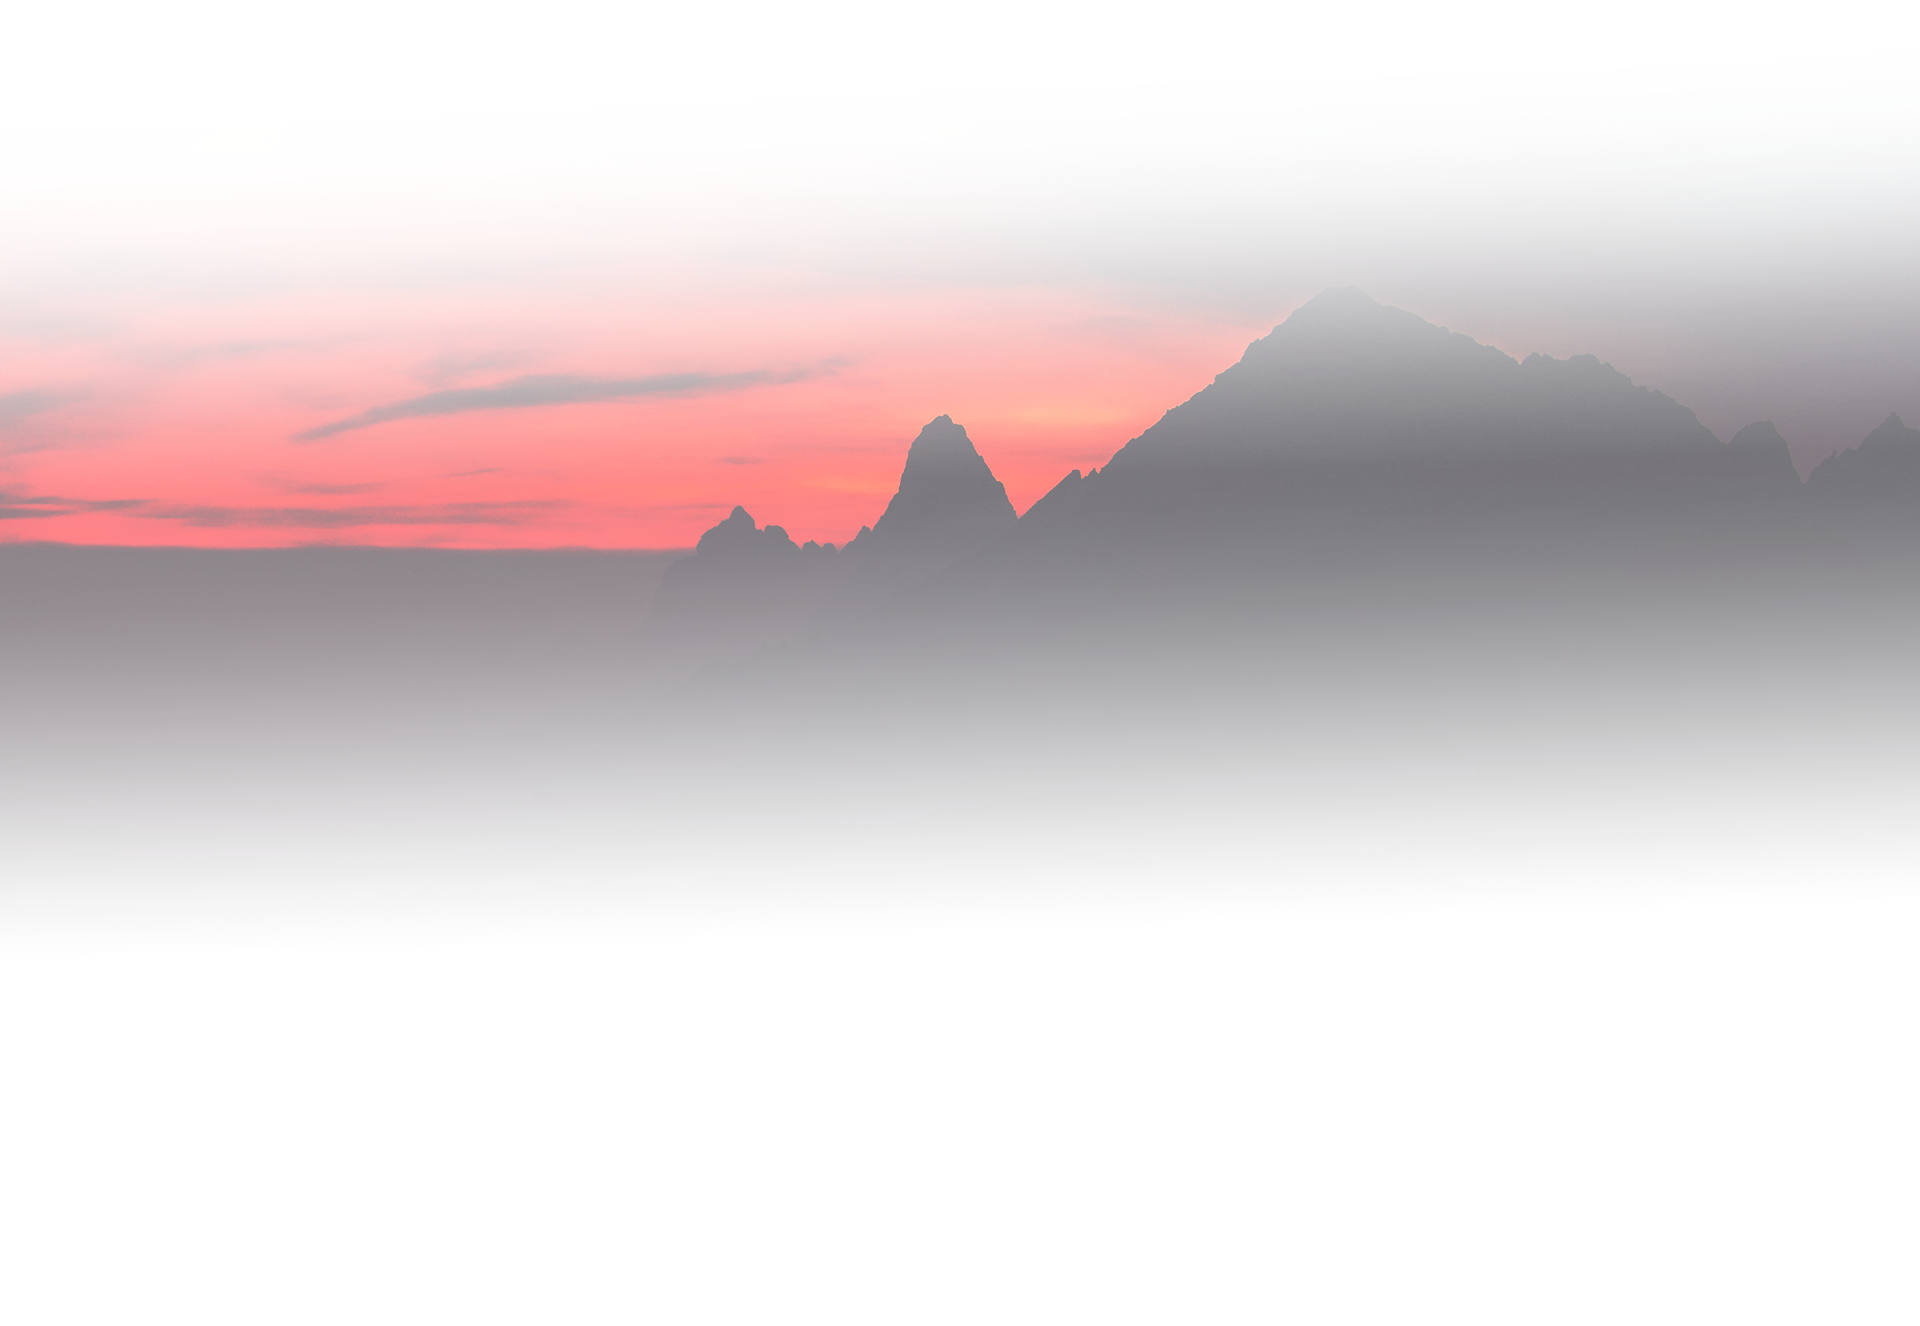
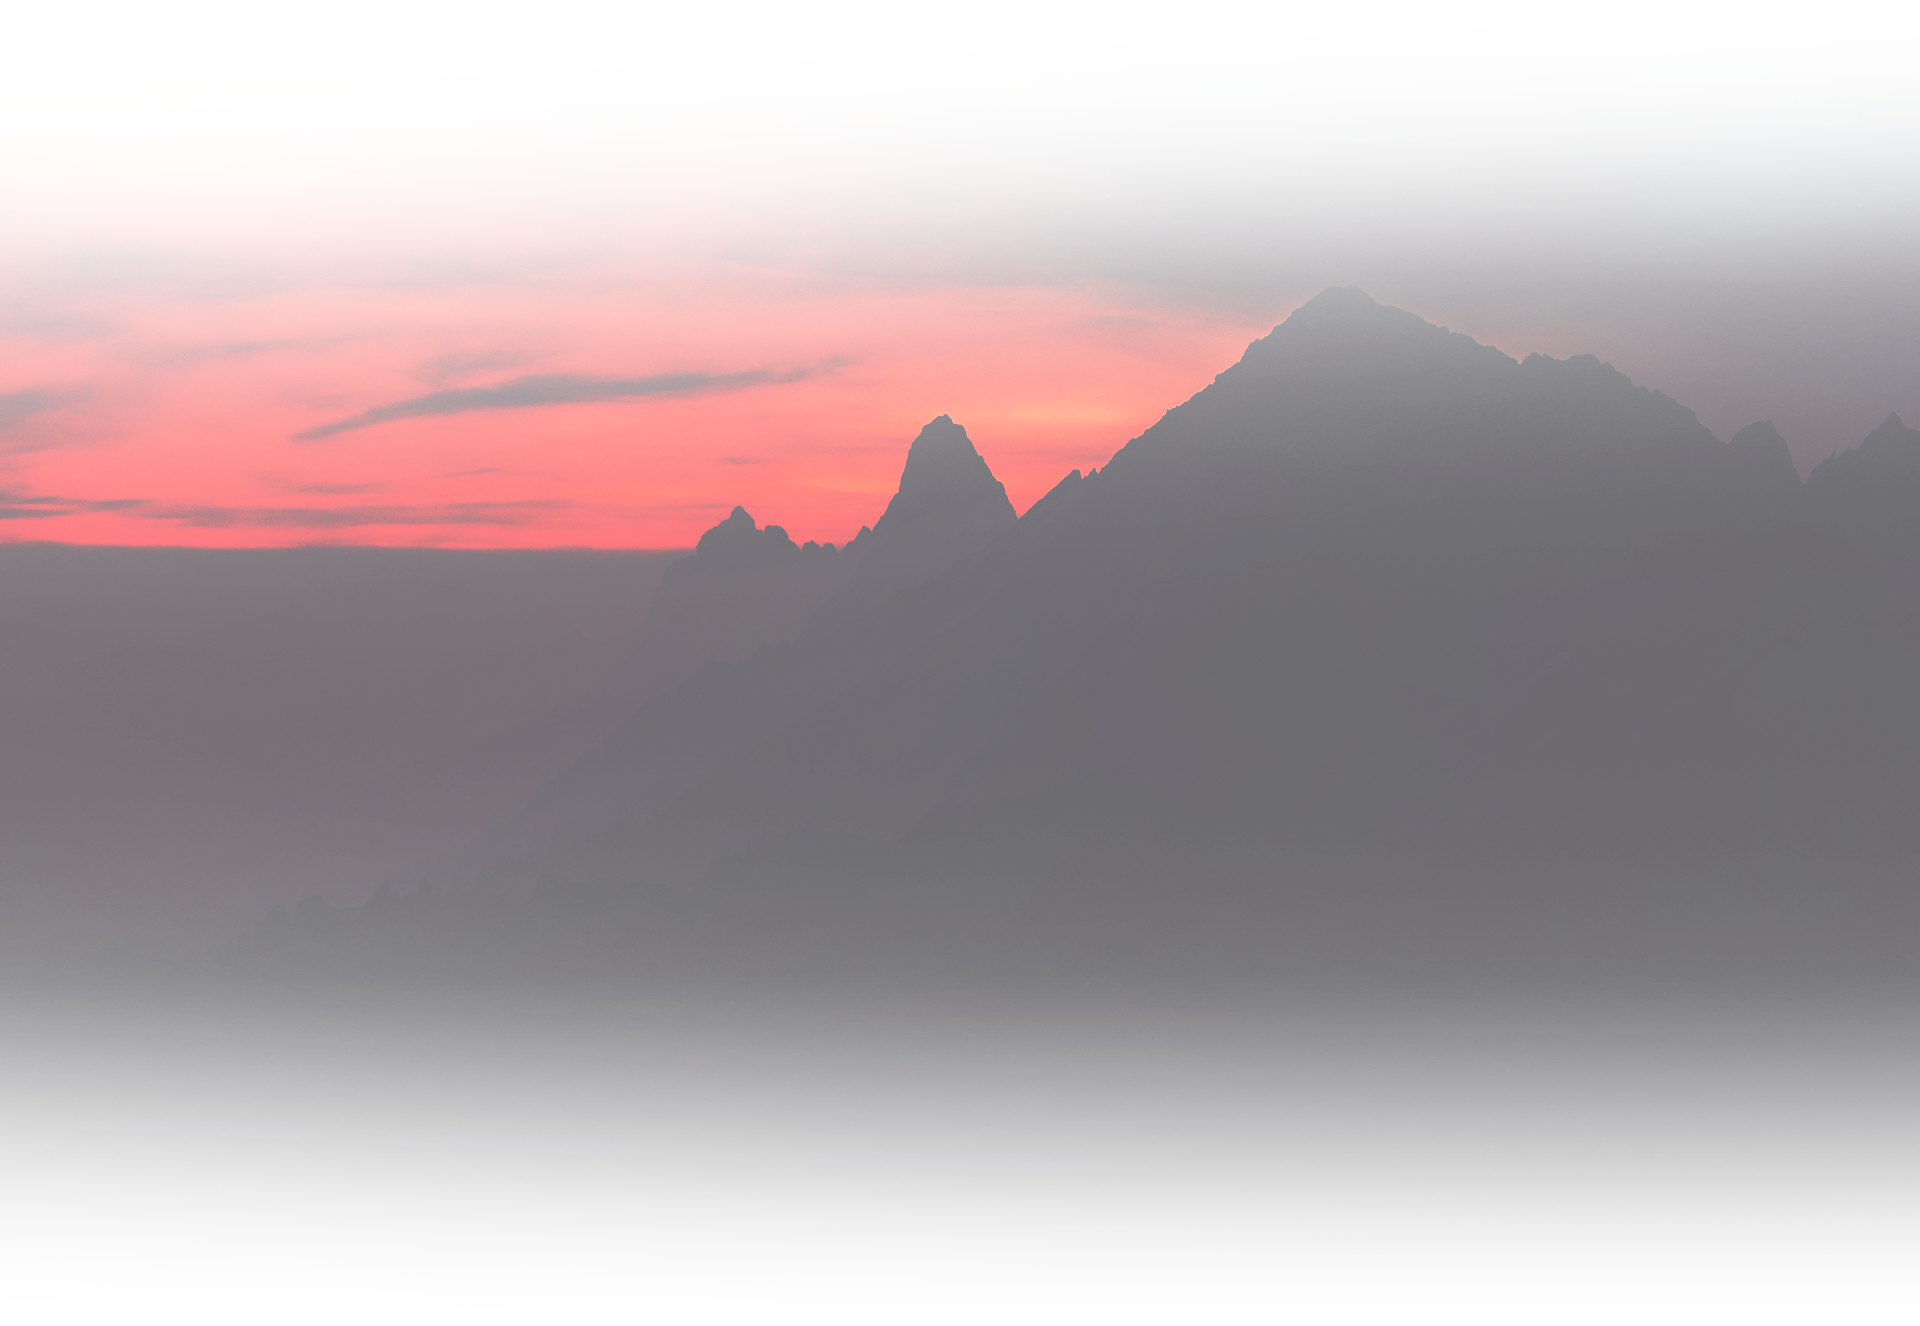
Html: team portraits are separated from text

diff --git a/app/css/style.css b/app/css/style.css
@@ -303,10 +303,11 @@ header {
   flex: 1 1 auto; }
 
 .projects {
-  height: 100vh;
-  background-image: url("../img/Projects/projects background1.png");
+  height: 130vh;
+  background: url("../img/Projects/projects background1.png") no-repeat;
   background-size: cover;
-  background-position: top;
+  background-position: bottom;
+  z-index: -1;
   position: relative;
   display: -webkit-box;
   display: -ms-flexbox;
@@ -321,8 +322,7 @@ header {
 .projects-letter {
   position: absolute;
   top: 1%;
-  left: 5%;
-  overflow: hidden; }
+  left: 5%; }
 
 .project-logo-wrap {
   max-width: 75rem;
@@ -355,5 +355,32 @@ header {
   -ms-flex: 0 5 10rem;
   flex: 0 5 10rem;
   margin-right: 2rem; }
+
+.team {
+  position: relative; }
+
+.team-letter {
+  position: absolute;
+  top: 50%;
+  left: 50%;
+  -webkit-transform: translate(-50%, -50%);
+  transform: translate(-50%, -50%); }
+
+.bio:nth-child(n) {
+  font-family: "Raleway", sans-serif;
+  font-weight: 100;
+  color: white;
+  margin-bottom: 1rem; }
+
+.line {
+  width: 30px;
+  height: 3px;
+  background: white;
+  display: block;
+  margin-bottom: 1rem; }
+
+.position {
+  margin-bottom: 1rem;
+  opacity: 0.8; }
 
 /*# sourceMappingURL=style.css.map */

diff --git a/app/scss/Team/_team.scss b/app/scss/Team/_team.scss
@@ -1,0 +1,38 @@
+.team {
+	position: relative;
+}
+
+.team-letter {
+	position: absolute;
+	top: 50%;
+	left: 50%;
+	transform: translate(-50%, -50%);
+}
+
+.team-number {}
+
+.portrait {}
+
+.bio:nth-child(n) {
+	font-family: $font-r;
+	font-weight: 100;
+	color: $white;
+	margin-bottom: 1rem;
+}
+
+.line {
+	width: 30px;
+	height: 3px;
+	background: $white;
+	display: block;
+	margin-bottom: 1rem;
+}
+
+.name {}
+
+.position {
+	margin-bottom: 1rem;
+	opacity: (.8)
+}
+
+.quote {}

diff --git a/app/scss/Projects/_projects.scss b/app/scss/Projects/_projects.scss
@@ -1,8 +1,9 @@
 .projects {
-	height: 100vh;
-	background-image: url("../img/Projects/projects background1.png");
+	height: 130vh;
+	background: url("../img/Projects/projects background1.png") no-repeat;
 	background-size: cover;
-	background-position: top;
+	background-position: bottom;
+	z-index: -1;
 	position: relative;
 	display: flex;
 	justify-content: center;
@@ -13,7 +14,6 @@
 	position: absolute;
 	top: 1%;
 	left: 5%;
-	overflow: hidden;
 }
 
 .project-logo-wrap {

diff --git a/app/scss/style.scss b/app/scss/style.scss
@@ -3,3 +3,4 @@
 @import 'Elements/index';
 @import 'Mission/index';
 @import 'Projects/index';
+@import 'Team/index';

diff --git a/app/scss/Team/index.scss b/app/scss/Team/index.scss
@@ -1,0 +1,1 @@
+@import '_team';
